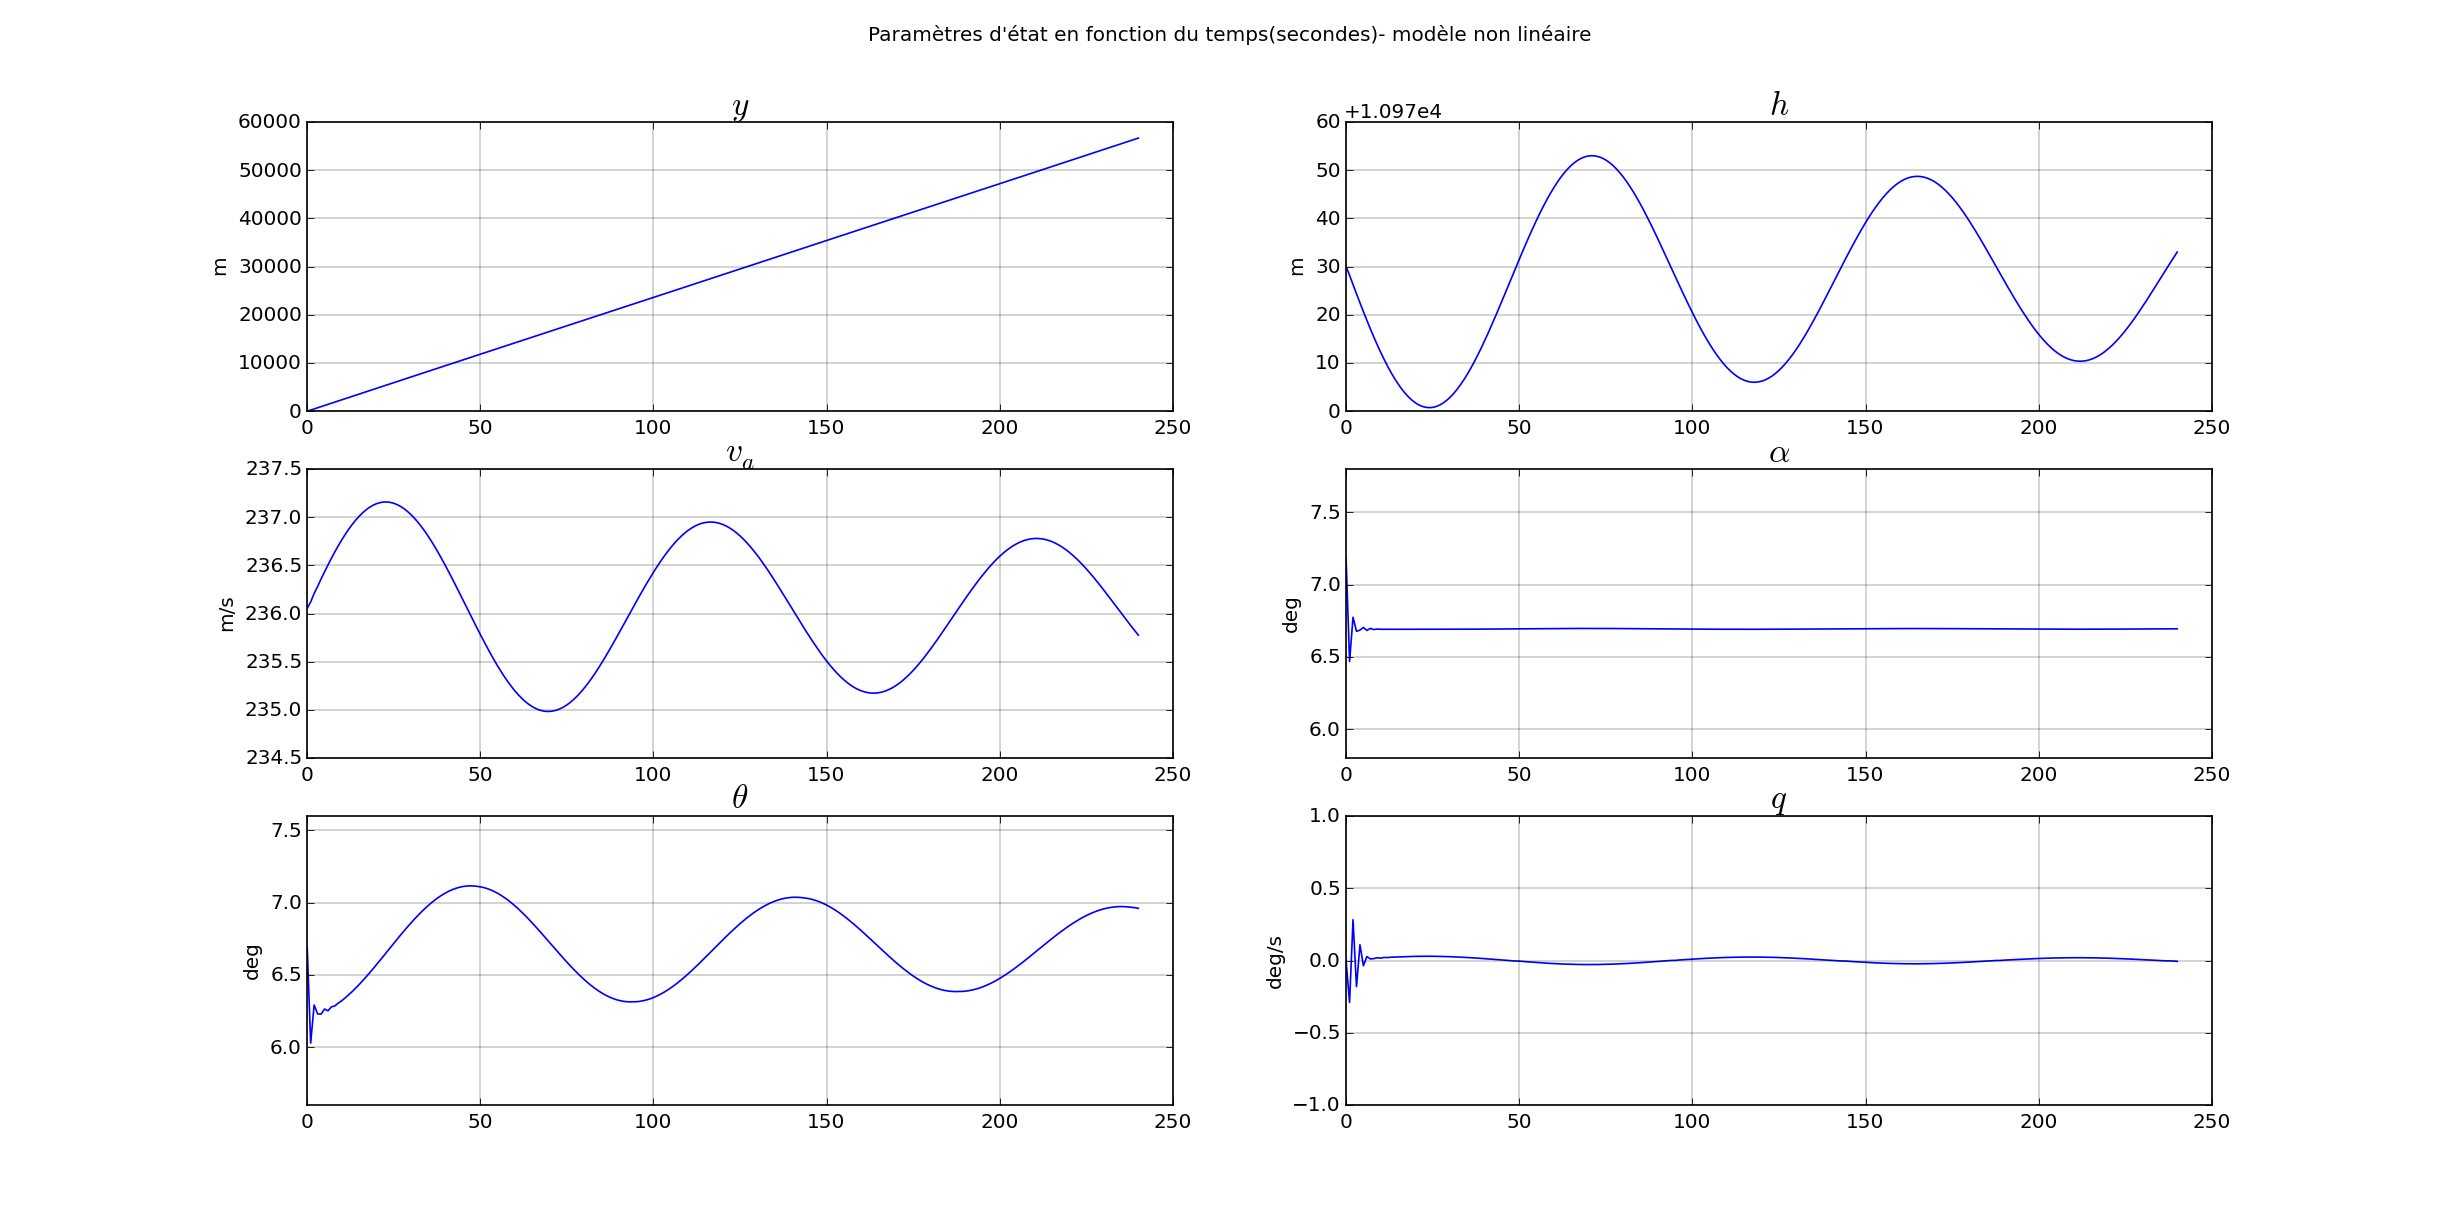
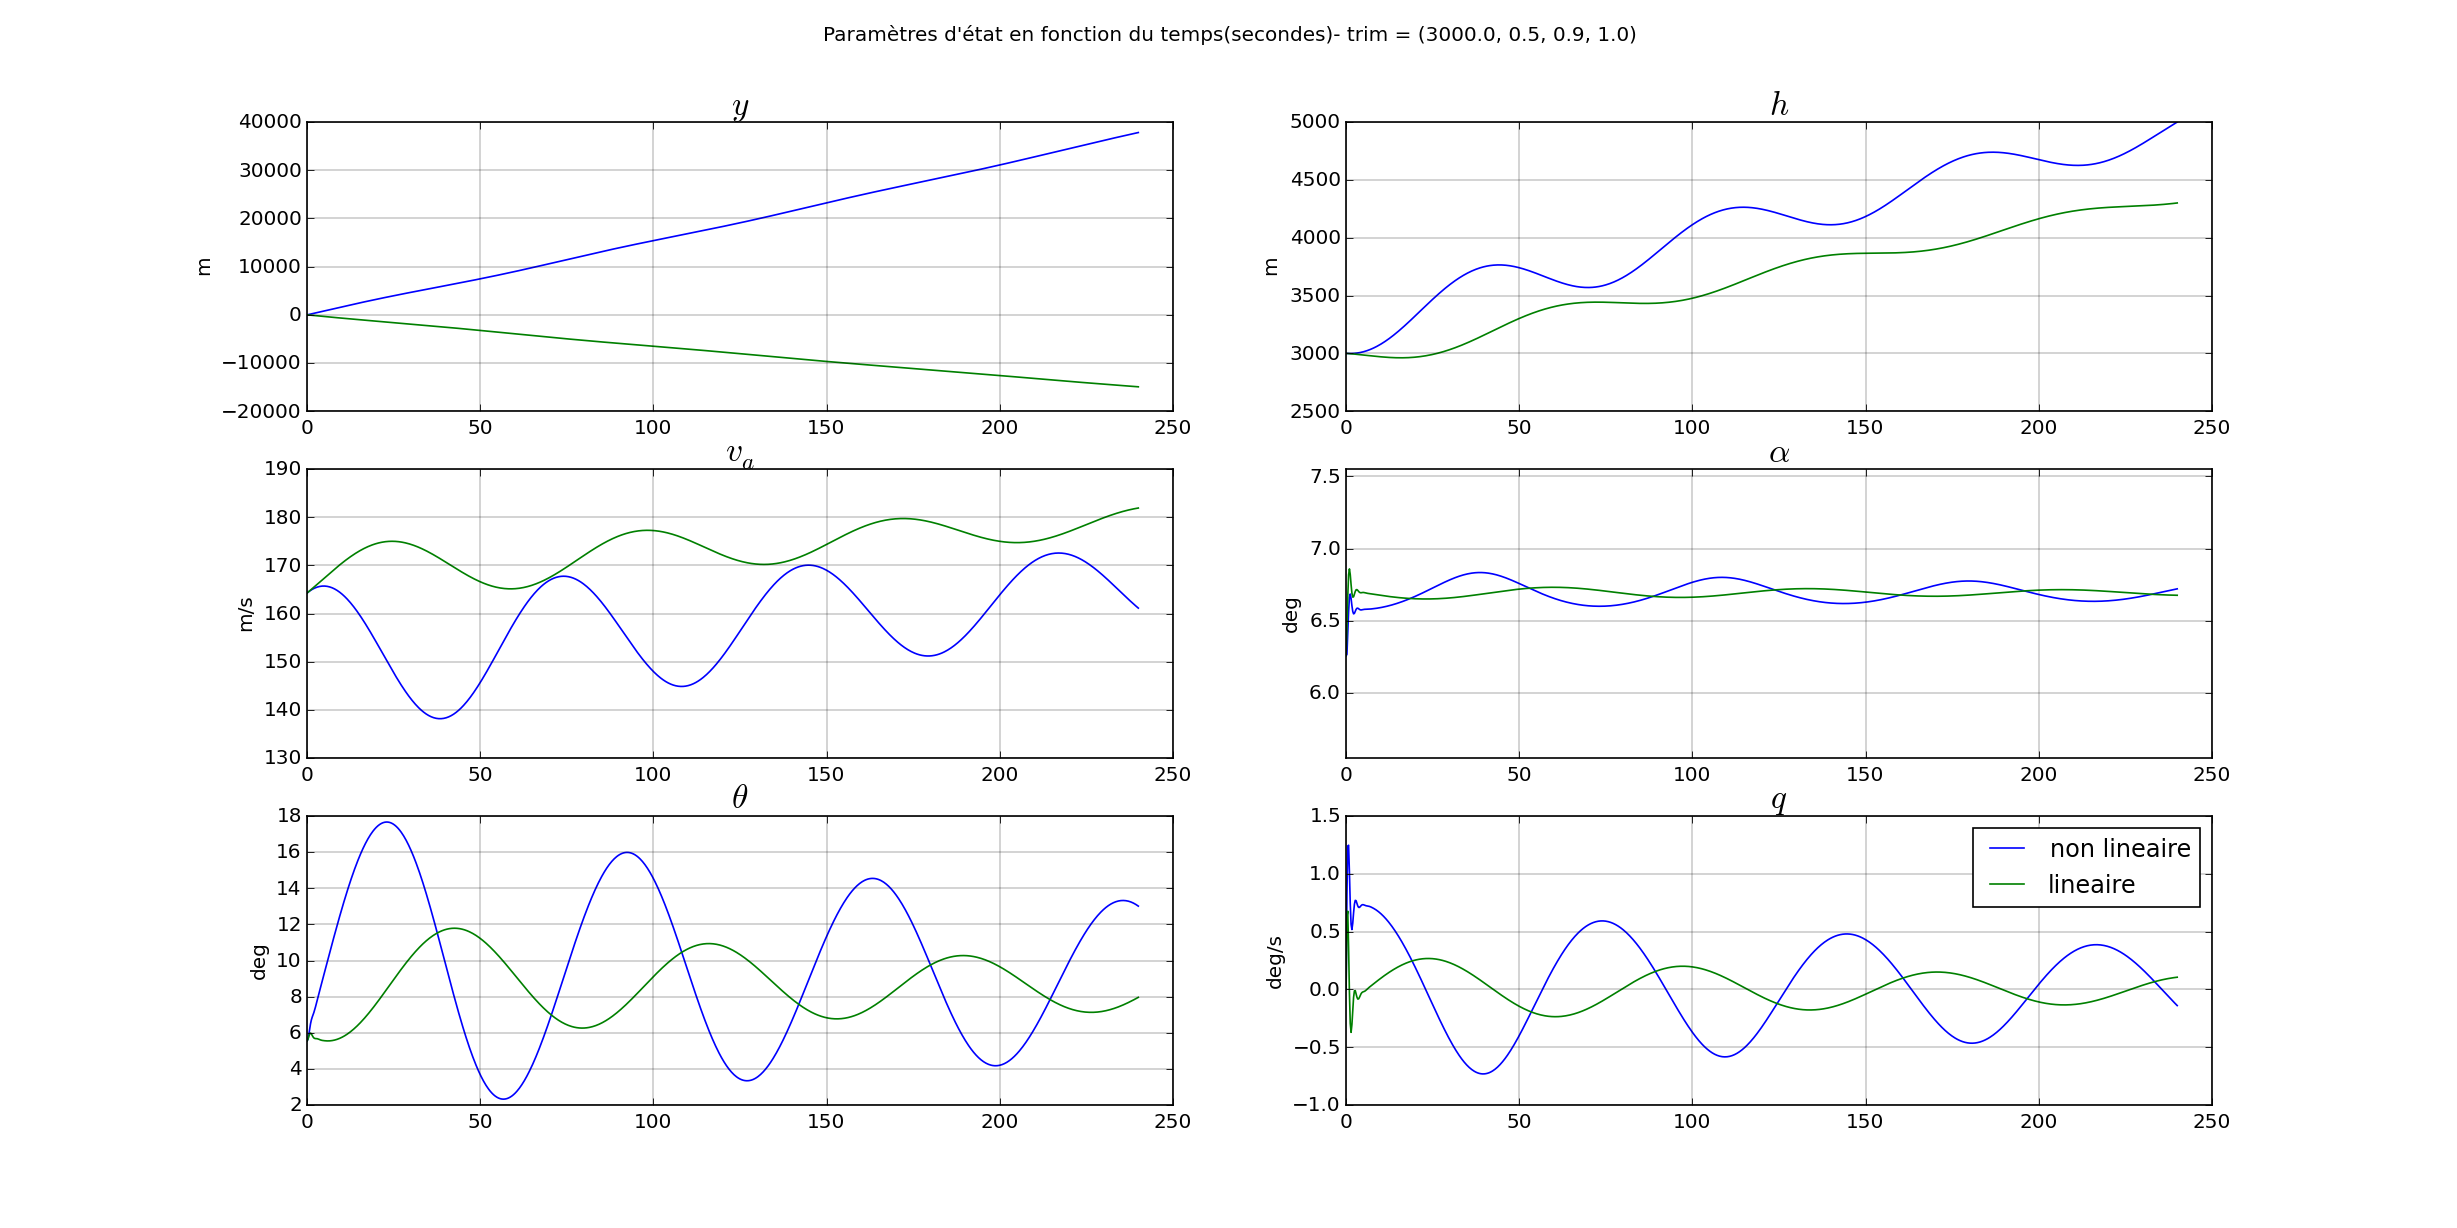
séance 3

diff --git a/seance3.py b/seance3.py
@@ -108,8 +108,8 @@ def v_propre(h_tuple, mac_tuple, km_tuple, ms_tuple):
                     # et ajout dans le tuple etat
                     etat = (X, U) = dy.trim(P, dico)
                     etat_lin = (A, B) = ut.num_jacobian(X, U, P, dy.dyn)
-                    A4 = np.copy(A[2:, 2:])
-                    B4 = np.copy(B[2:])
+                    A4 = A[2:, 2:].copy()
+                    B4 = B[2:].copy()
                     etat_lin4 = (A4, B4)
                     # calcul vp val propre
                     vp = np.linalg.eig(A4)
@@ -136,7 +136,9 @@ def v_propre(h_tuple, mac_tuple, km_tuple, ms_tuple):
 # On choisit le point de trim ci-dessous déjà utilisé lors de la séance 2
 tout = v_propre(h_tuple, mac_tuple, km_tuple, ms_tuple)  # on récupere "tout"
 vp = tout[0]  # on choisit uniquement les val propres, pas les vecteurs
-pt_trim =  (11000.0, 0.8, 0.9, 1.0)
+
+# $$$ on fixe un pt de trim
+pt_trim =  (3000.0, 0.5, 0.9, 1.)
 vap1=vp[pt_trim] # on choisit les val propres d'un seul point de trim
 # print(type(vap1))
 vep = tout[1]  # on selectionne le dico des vecteurs propres
@@ -148,10 +150,11 @@ A4B4 = A4B4_dict[pt_trim]
 A4 = A4B4[0]
 B4 = A4B4[1]
 
-toto = tout[3]
-X,U = toto[pt_trim]
+XU_dico = tout[3]
+X,U = XU_dico[pt_trim]
 X = np.array(X)
 U=np.array(U)
+
 # print(type(U))
 
 #récup de A et B
@@ -176,12 +179,6 @@ def affiche_mat(M):
             f = "{:+.5f}  ".format(M[l])
             print(f)
 
-#
-
-# affiche_mat(B)
-# print(A)
-
-
 
 
 # Pour la séance 3, le point de trim
@@ -199,53 +196,79 @@ def affiche_mat(M):
 #calcul du nouveau vecteur d'état intial on a alpha
 #atan(wh/vae)
 dalpha =  math.atan(2./X[dy.s_va])
-Xi=np.copy(X)
+Xi=X.copy()
 Ui=np.copy(U)
 Xi[dy.s_a]+=dalpha
+
 
 print("*******************")
 
 #X est l'état d'equilibre
 dXi=np.zeros(6)
 dXi[dy.s_a]=dalpha
-def dyn_lin(dX,t,A):
-    dXdot=np.dot(A,dX)
+A = np.array(A)
+# def dyn_lin(dX,t):
+#
+#     dX = np.array(dX)
+#     dXdot=np.dot(A,dX)
+#     return dXdot
+
+Xe = X.copy()
+
+
+
+##########################################################################"
+# point de trim différend de celui utilisé pour obtenir la matrice A et B
+X,U = XU_dico[(11000.0, 0.8, 0.9, 1.0)]
+X = np.array(X)
+Xe=X.copy()
+
+###########################################################################
+
+def dyn_lin(X,t):
+    dXdot=np.dot(A,X)-np.dot(A,Xe)
     return dXdot
 
 
+def Xet(X,nb):
+    '''
+    produit
+    :param X:
+    :param nb:nb de ligne du tableau
+    :return:un array contitué de nb lignes du vecteur X
+    '''
+    col = len(X)
+    xet = np.zeros((nb,col))
+    for i in range(nb):
+        xet[i,:]= X
+    return xet
+
+
 def trajectoire(X, U, P):
-    tt=240 # 240s
-    t = np.linspace(0, tt, tt+1)
+    tt=240# 240s
+    nb_val=1000
+    t = np.linspace(0, tt, nb_val)
     sol = odeint(dy.dyn, X, t, (U, P))
-    # sol_lin = odeint(np.dot(A,dXi), dXi, t, (U, P))
-    sol_lin = odeint(dyn_lin, dXi, t,(A,))
-
-# construction d'un matrice constituée pour chaque des valeur de Xe=X
-
-
-    for i,t2 in enumerate(t):
-        sol_lin[i,:]+=X
-        print(sol_lin)
-
+    sol_lin = odeint(dyn_lin, X, t)
 
     dy.plot2(t, sol,sol_lin, U=None, figure=None, window_title="Paramètres d'état en fonction du temps(secondes)")
     # dy.plot(t, soli, U=None, figure=None, window_title="Paramètres d'état en fonction du temps(secondes)")
-    plt.suptitle("Paramètres d'état en fonction du temps(secondes)- modèle non linéaire")
-    # plt.savefig('seance3/param_of_time.png', dpi=120)  # sauvegarde du graphe au format png dans le dossier images
+    plt.suptitle("Paramètres d'état en fonction du temps(secondes)- trim = {}".format(pt_trim))
+    plt.savefig('seance3/param_of_time.png', dpi=120)  # sauvegarde du graphe au format png dans le dossier images
     plt.show()
     plt.close()
 
-    plt.axis([0, max(sol[:, 0]), 10800, 11200])
-    plt.plot(sol[:, 0], sol[:, 1])
-    plt.grid(True)
-    plt.xlabel("Distance parcourue y (kilomètres) durant {}s".format(tt))
-    plt.ylabel("Altitude h (kilomètres)")
-    plt.title("Trajectoire d'un " + P.name)
-    plt.text(1, 10, "mouvement est rectiligne uniforme")
-    plt.text(1, 9, "Point de trim : mac = {:.2f}, h = {:.0f}m, ms = {:.1f}".format(mac, h, P.ms))
-    plt.text(1, 8, "masse = {:.0f}kg".format(P.m))
-    # plt.savefig('seance3/trajectoire.png', dpi=120)  # sauvegarde du graphe au format png dans le dossier images
-    plt.show()
+    # plt.axis([0, max(sol[:, 0]), 10800, 11200])
+    # plt.plot(sol[:, 0], sol[:, 1])
+    # plt.grid(True)
+    # plt.xlabel("Distance parcourue y (kilomètres) durant {}s".format(tt))
+    # plt.ylabel("Altitude h (kilomètres)")
+    # plt.title("Trajectoire d'un " + P.name)
+    # plt.text(1, 10, "mouvement est rectiligne uniforme")
+    # plt.text(1, 9, "Point de trim : mac = {:.2f}, h = {:.0f}m, ms = {:.1f}".format(mac, h, P.ms))
+    # plt.text(1, 8, "masse = {:.0f}kg".format(P.m))
+    # # plt.savefig('seance3/trajectoire.png', dpi=120)  # sauvegarde du graphe au format png dans le dossier images
+    # plt.show()
 
 trajectoire(Xi,U,P)
 
@@ -258,8 +281,8 @@ M_1=np.linalg.inv(M)
 dXip = np.dot(M_1,dXi)
 
 #vap1 contient les 4 val propres
-toto=np.diag(vap1) #np.exp(vap1)
-# print(toto)
+diag4=np.diag(vap1) #np.exp(vap1)
+
 
 
 

diff --git a/linear.py b/linear.py
@@ -1,0 +1,87 @@
+#!/usr/bin/env python
+#  -*- coding: utf-8 -*-
+
+import math
+import numpy as np, matplotlib.pyplot as plt
+import utils as ut
+import dynamic as dy
+from scipy.integrate import odeint
+from pylab import *
+
+
+
+
+markeur = ('o', 'v', '^', '<', '>', '1', '2', '3', '4', '8', 's', 'p', '*', 'h', 'H', '+', 'x', 'D', 'd', ' ')
+plt.grid(True)
+plt.axhline()
+plt.axvline()
+P = dy.Param_737_300()
+
+
+h_tuple = (3000., 11000.)
+h_kilometre = np.array(h_tuple) / 1000
+mac_tuple = (0.5, 0.8)
+km_tuple = (0.1, 0.9)
+ms_tuple = (0.2, 1.)
+
+ord_max = 1.
+abs_min = 3
+abs_max = 11
+nb_ligne = len(km_tuple) * len(ms_tuple)
+
+
+# on choisit le point de trim numéro 16 pour lequel on a :
+h = 3000.
+mac = 0.8
+km = 0.9
+ms = 1.
+
+# intialisation de l'avion
+P.set_mass_and_static_margin(km, ms)  # km masse avion, ms : marge statique
+
+# calcul de va en m/s
+va = dy.va_of_mach(mac, h)
+
+# calcul de rho
+rho = ut.isa(h)[1]
+
+args = {}
+args['h'] = h
+args['va'] = dy.va_of_mach(mac, h)  # conv mach en m/s
+X, U = dy.trim(P, args)
+(A, B) = ut.num_jacobian(X, U, P, dy.dyn)
+
+
+val_propre = np.linalg.eig(A)
+print(np.real(val_propre[0]))
+exit()
+
+#calcul du nouveau vecteur d'état intial on a alpha
+#atan(wh/vae)
+dalpha =  math.atan(2./X[dy.s_va])
+Xi=X.copy()
+Xi[dy.s_a]+=dalpha
+
+
+print("*******************")
+
+#X est l'état d'equilibre
+Xe = X.copy()
+
+dXi=np.zeros(6)
+dXi[dy.s_a]=dalpha
+
+
+def dyn_lin(X,t):
+    Xdot=np.dot(A,X)-np.dot(A,Xe)
+    return Xdot
+
+tt=240 # 240s
+nb_val=tt+1
+t = np.linspace(0, tt, nb_val)
+sol_lin = odeint(dyn_lin, Xi, t)
+
+dy.plot(t, sol_lin, U=None, figure=None, window_title="Paramètres d'état en fonction du temps(secondes)")
+plt.show()
+print(sol_lin[240,:])
+

diff --git a/dynamic.py b/dynamic.py
@@ -336,10 +336,11 @@ def plot2(time, X, X2, U=None, figure=None, window_title="Trajectory"):
              ("$q$", "deg/s", ut.deg_of_rad(X2[:, s_q]), 2.)]
     for i, (title, ylab, data, min_yspan) in enumerate(plots):
         ax = plt.subplot(3, 2, i + 1)
-        plt.plot(time, data)
+        plt.plot(time, data,label="non lineaire")
         ut.decorate(ax, title=title, ylab=ylab, min_yspan=min_yspan)
     for i, (title, ylab, data, min_yspan) in enumerate(plots2):
         ax = plt.subplot(3, 2, i + 1)
-        plt.plot(time, data)
+        plt.plot(time, data, label="lineaire")
         ut.decorate(ax, title=title, ylab=ylab, min_yspan=min_yspan)
+    plt.legend(loc='best')
     return figure

diff --git a/seance2.py b/seance2.py
@@ -445,7 +445,7 @@ def affiche_vp_faible(h_tuple, mac_tuple, km_tuple, ms_tuple,P):
 
 
 
-affiche_vp_faible(h_tuple, mac_tuple, km_tuple, ms_tuple,P)
+# affiche_vp_faible(h_tuple, mac_tuple, km_tuple, ms_tuple,P)
 
 
 # Pour la séance 3, le point de trim
